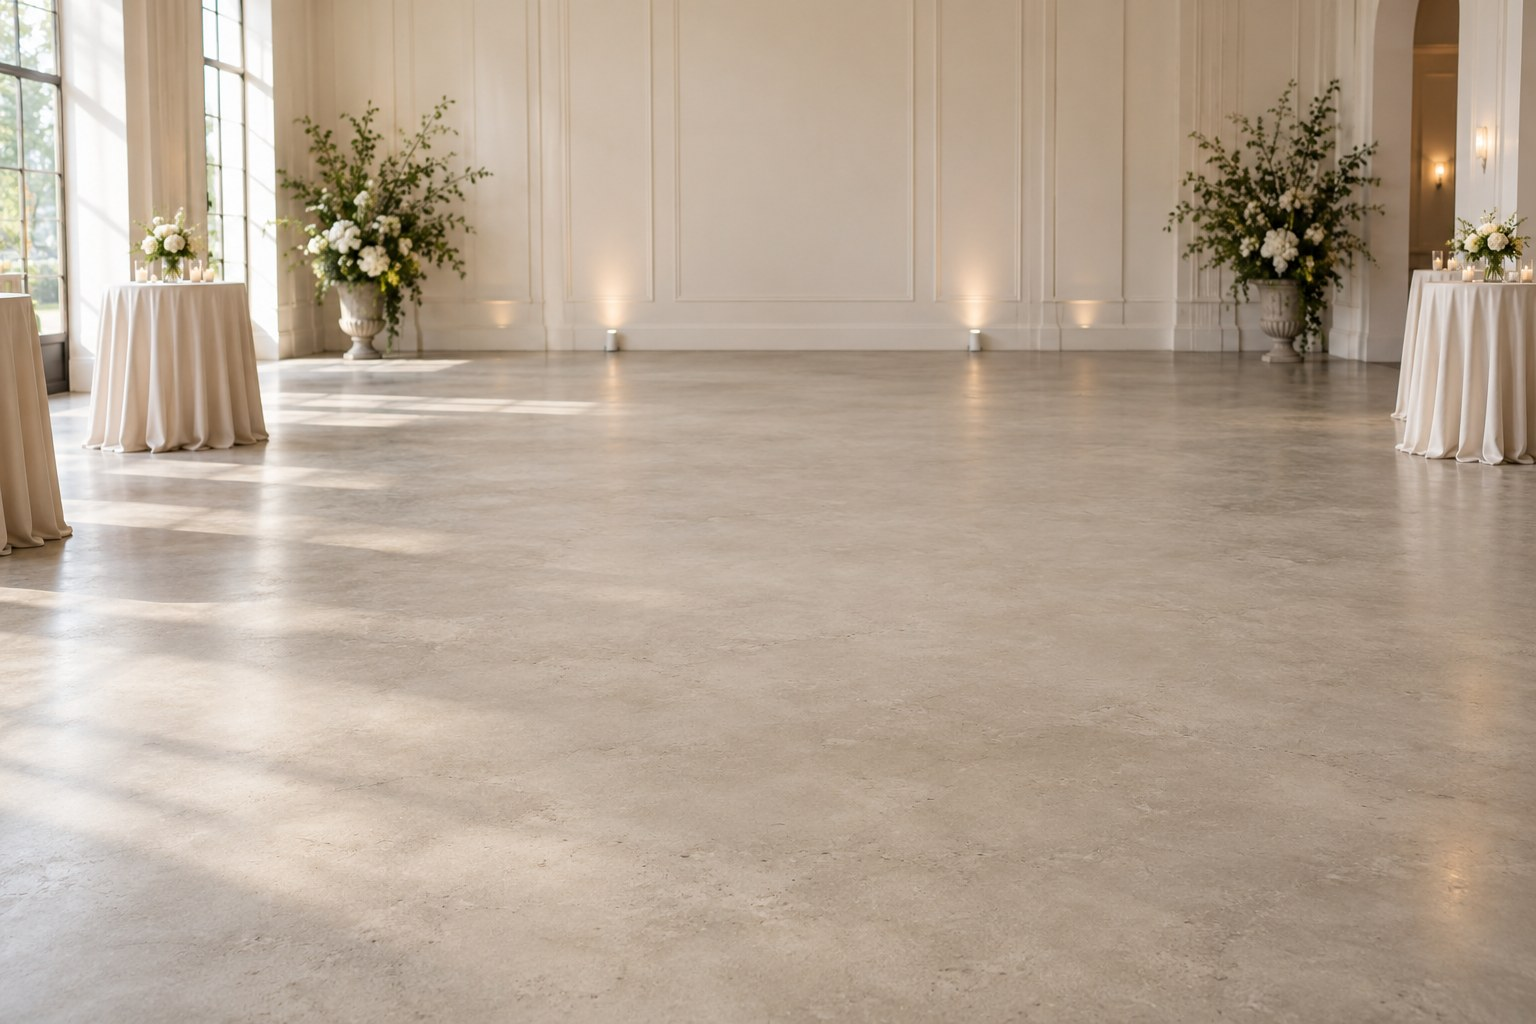
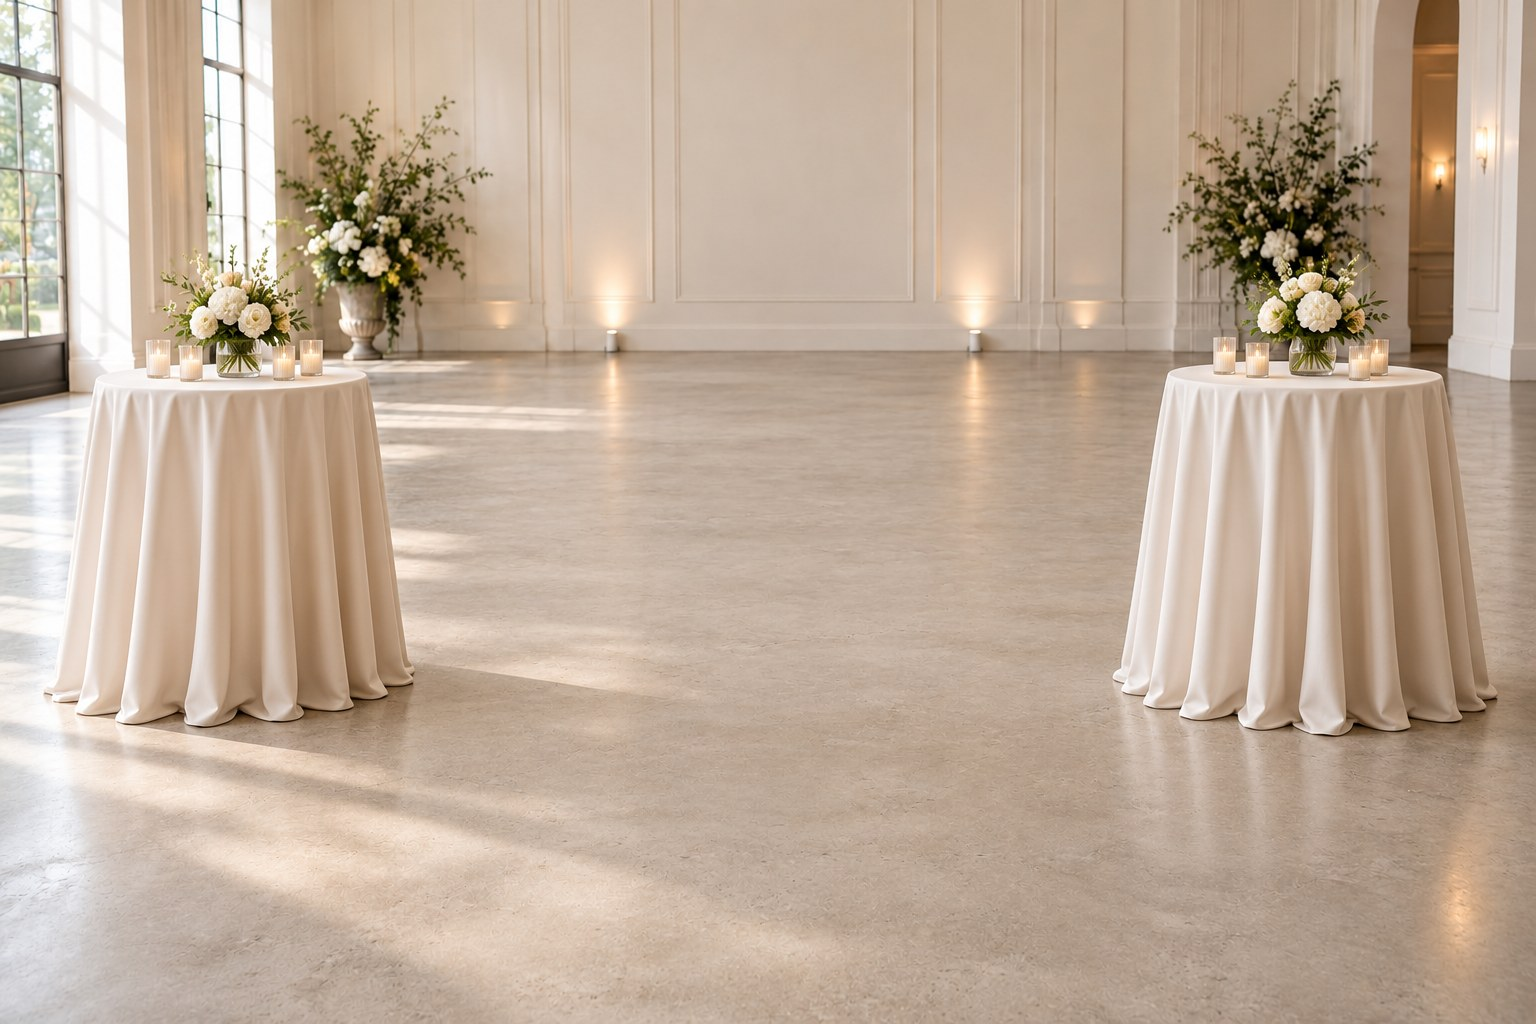
Improve modeling viewport and add hanging glass preview

diff --git a/angular-app/src/app/features/modeling/modeling.component.ts b/angular-app/src/app/features/modeling/modeling.component.ts
@@ -9,6 +9,7 @@ import { resizePlywoodPosition, resizeRoofCartPosition } from './modeling-geomet
 import { createRoundedPart, keepTrimJointSquare, keepPartJointsSquare, matingPartJoints, RoundingProfile } from './modeling-rounding';
 import { createFrontMoulding } from './modeling-moulding';
 import { pineWoodUv, addTopFinishUvs, groupTopFacesAndEdges, groupShakerRecess } from './modeling-textures';
+import { createHangingGlass, hangingGlassLayout } from './modeling-glasses';
 import { createRoofBottom, createGlassRack, glassRackLayout } from './modeling-roof';
 import { ASSEMBLY_PARTS, AssemblyController, PartKey } from './modeling-assembly';
 
@@ -61,6 +62,7 @@ export class ModelingComponent implements AfterViewInit, OnDestroy {
   readonly depth = signal(600);
   readonly height = signal(900);
   readonly rounding = signal(1.5);
+  readonly roundingEditing = signal(false);
   readonly moulding = signal(true);
   readonly frontStyle = signal<'shaker' | 'plain' | 'moulding'>('plain');
   private frontMoulding?: THREE.Mesh;
@@ -71,6 +73,15 @@ export class ModelingComponent implements AfterViewInit, OnDestroy {
     this.previewScene.set(scene);
     // The stationary photographic floor remains visible through the renderer.
     this.scene.background = scene === 'studio' ? new THREE.Color('#eceae8') : null;
+  }
+  readonly showGlasses = signal(false);
+  readonly glassDiameter = signal(80);
+  glassLayout() { return hangingGlassLayout(this.glassDiameter(), this.rackLayout().bowlDiameter); }
+  setShowGlasses(visible: boolean): void { this.showGlasses.set(visible); this.updateRoofBottom(); this.applyFinishes(); }
+  setGlassDiameter(raw: string): void {
+    const value = Number(raw); if (!Number.isFinite(value)) return;
+    this.glassDiameter.set(hangingGlassLayout(value, null).diameter);
+    this.updateRoofBottom(); this.applyFinishes();
   }
   readonly glassRackCount = signal(0);
   private glassRacks?: THREE.Group;
@@ -151,13 +162,13 @@ export class ModelingComponent implements AfterViewInit, OnDestroy {
       const light = new THREE.DirectionalLight('#ffffff', 1.3);
       light.position.set(2, 4, 3);
       light.castShadow = true;
-      light.shadow.mapSize.set(2048, 2048);
+      light.shadow.mapSize.set(4096, 4096);
       light.shadow.camera.left = light.shadow.camera.bottom = -2;
       light.shadow.camera.right = light.shadow.camera.top = 2;
       light.shadow.camera.near = 0.1;
       light.shadow.camera.far = 12;
       light.shadow.bias = -0.00002;
-      light.shadow.normalBias = 0.003;
+      light.shadow.normalBias = 0.001;
       this.scene.add(light);
       const ground = new THREE.Mesh(new THREE.PlaneGeometry(10, 10), new THREE.ShadowMaterial({ opacity: 0.22 }));
       ground.rotation.x = -Math.PI / 2;
@@ -175,6 +186,8 @@ export class ModelingComponent implements AfterViewInit, OnDestroy {
         this.controls, () => this.assemblyRevision.update(value => value + 1));
       this.resizeObserver = new ResizeObserver(() => this.resize());
       this.resizeObserver.observe(this.canvasHost.nativeElement);
+      window.addEventListener('resize', this.onPreviewResize);
+      document.addEventListener('scroll', this.onPreviewResize, true);
       this.resize();
       this.animate();
       void this.loadSavedModel();
@@ -184,7 +197,14 @@ export class ModelingComponent implements AfterViewInit, OnDestroy {
     }
   }
 
+  private readonly onPreviewResize = () => this.resize();
+
   private resize(): void {
+    if (this.canvasHost && window.matchMedia('(min-width: 981px)').matches) {
+      const card = this.canvasHost.nativeElement.parentElement!;
+      const top = Math.max(10, card.getBoundingClientRect().top);
+      card.style.setProperty('--viewer-top', `${top}px`);
+    }
     if (!this.renderer) return;
     const { width, height } = this.canvasHost.nativeElement.getBoundingClientRect();
     if (!width || !height) return;
@@ -245,9 +265,12 @@ export class ModelingComponent implements AfterViewInit, OnDestroy {
     this.loading.set(true);
     this.rawBody.set(true);
     this.moulding.set(this.isClassic());
+    this.roundingEditing.set(false);
     this.frontStyle.set(this.isClassic() ? 'plain' : 'shaker');
     this.roofClosed.set(false);
     this.glassRackCount.set(0);
+    this.showGlasses.set(false);
+    this.glassDiameter.set(80);
     this.topFinish.set(this.isClassic() ? 'plywood' : 'body');
     this.paintFinish.set('matte');
     try { await this.loadRecord(record, version); }
@@ -611,8 +634,8 @@ export class ModelingComponent implements AfterViewInit, OnDestroy {
     return this.paintFinish() === 'semi-gloss' ? 0.26 : 0.78;
   }
 
-  private paintReflection(): THREE.Texture | null {
-    if (this.paintFinish() !== 'semi-gloss' || !this.renderer) return null;
+  private paintReflection(forGlass = false): THREE.Texture | null {
+    if ((!forGlass && this.paintFinish() !== 'semi-gloss') || !this.renderer) return null;
     if (!this.paintEnvironment) {
       const studio = new THREE.Scene();
       studio.background = new THREE.Color('#181818');
@@ -757,6 +780,10 @@ export class ModelingComponent implements AfterViewInit, OnDestroy {
       for (const x of layout.centres) {
         const rack = createGlassRack();
         rack.position.set(x / 1000, envelope.min.y, (envelope.min.z + envelope.max.z) / 2);
+        if (this.showGlasses()) for (const z of this.glassLayout().positions) {
+          const glass = createHangingGlass(this.glassDiameter(), this.paintReflection(true));
+          glass.position.set(0, -.067, z); rack.add(glass);
+        }
         this.glassRacks.add(rack);
       }
       this.body.add(this.glassRacks);
@@ -975,6 +1002,8 @@ export class ModelingComponent implements AfterViewInit, OnDestroy {
     this.loadVersion++;
     cancelAnimationFrame(this.frame);
     this.resizeObserver?.disconnect();
+    window.removeEventListener('resize', this.onPreviewResize);
+    document.removeEventListener('scroll', this.onPreviewResize, true);
     this.controls?.dispose();
     this.assembly?.dispose();
     this.disposeModel();

diff --git a/angular-app/src/app/features/modeling/modeling.component.html b/angular-app/src/app/features/modeling/modeling.component.html
@@ -59,12 +59,19 @@
             <button type="button" [class.selected]="height() === value" [attr.aria-pressed]="height() === value" (click)="setDimension('height', value.toString())">{{value / 10}} cm</button>
           }
         </div>
-        <label id="model-rounding-label">Edge rounding <output>{{rounding()}} mm</output></label>
-        <div class="length-options rounding-options" role="group" aria-labelledby="model-rounding-label">
+        <div class="rounding-heading">
+          <label id="model-rounding-label">Edge rounding <output>{{rounding()}} mm</output></label>
+          <button type="button" class="icon-action rounding-edit" [attr.aria-label]="roundingEditing() ? 'Close edge rounding editor' : 'Edit edge rounding'" [attr.title]="roundingEditing() ? 'Done' : 'Edit'" [attr.aria-expanded]="roundingEditing()" aria-controls="rounding-options" (click)="roundingEditing.set(!roundingEditing())">
+            @if (roundingEditing()) { <span aria-hidden="true">✓</span> } @else { <svg aria-hidden="true" viewBox="0 0 24 24" width="14" height="14" fill="none" stroke="currentColor" stroke-width="1.8" stroke-linecap="round" stroke-linejoin="round"><path d="m16 3 5 5-12 12-6 1 1-6Z"/><path d="m14 5 5 5"/></svg> }
+          </button>
+        </div>
+        @if (roundingEditing()) {
+        <div id="rounding-options" class="length-options rounding-options" role="group" aria-labelledby="model-rounding-label">
           @for (radius of [0, 1, 1.5, 2, 2.5, 3]; track radius) {
             <button type="button" [disabled]="!roundingSupported() || roundingBusy()" [class.selected]="rounding() === radius" [attr.aria-pressed]="rounding() === radius" (click)="setRounding(radius)">{{radius === 0 ? 'None' : radius + ' mm'}}</button>
           }
         </div>
+        }
         @if (roundingBusy()) {<p class="progress" role="status">Rounding wooden parts…</p>}
         @if (!loading() && !roundingSupported()) {<p class="help">Upload an updated GLB with part profiles to enable rounding.</p>}
       </section>
@@ -101,6 +108,15 @@
             <p class="help" aria-live="polite">Clear gap between racks: <strong>{{rackLayout().gap!.toFixed(1)}} mm</strong><br>Maximum bowl diameter: <strong>{{rackLayout().bowlDiameter!.toFixed(1)}} mm</strong> (4 mm clearance).</p>
           } @else if (glassRackCount() === 1) { <p class="help">One centred rack — no adjacent rack limits the bowl diameter.</p> }
           <p class="help">Bowl diameter is based on rack spacing. Check the actual stem and base fit before manufacture.</p>
+          @if (glassRackCount() > 0) {
+            <label class="glasses-toggle"><span>Show glasses</span><input type="checkbox" [checked]="showGlasses()" (change)="setShowGlasses($any($event.target).checked)" aria-label="Show glasses on racks"></label>
+            @if (showGlasses()) {
+              <label for="glass-diameter">Bowl diameter <output>{{glassDiameter()}} mm</output></label>
+              <input id="glass-diameter" type="range" min="60" max="160" step="5" [value]="glassDiameter()" (input)="setGlassDiameter($any($event.target).value)" aria-label="Glass bowl diameter in millimetres">
+              @if (glassLayout().count) { <p class="help" aria-live="polite">{{glassLayout().count}} glasses per rack · {{glassLayout().count * glassRackCount()}} total. Preview wine glasses with a 70 mm foot.</p> }
+              @else { <p class="error" role="alert">These glasses exceed the spacing between racks. Reduce the bowl diameter or remove racks.</p> }
+            }
+          }
         }
       </section>
       }

diff --git a/angular-app/src/app/features/modeling/modeling-glasses.ts b/angular-app/src/app/features/modeling/modeling-glasses.ts
@@ -1,0 +1,32 @@
+import * as THREE from 'three';
+
+export function hangingGlassLayout(diameterMm: number, rackLimitMm: number | null) {
+  const diameter = Math.max(60, Math.min(160, Math.round(diameterMm / 5) * 5));
+  const fits = rackLimitMm === null || diameter <= rackLimitMm;
+  const spacing = Math.max(diameter, 70) + 4;
+  const count = fits ? Math.floor(320 / spacing) : 0;
+  const pitch = spacing / 1000;
+  return { diameter, count, positions: Array.from({ length: count }, (_, i) => .03 + (i - (count - 1) / 2) * pitch) };
+}
+
+// Inverted wine glass: a 70 mm foot rests above the rods; its stem passes
+// through the slot. The hollow bowl and open rim are modelled as a thin shell.
+export function createHangingGlass(diameterMm: number, environment: THREE.Texture | null): THREE.Group {
+  const group = new THREE.Group(), radius = diameterMm / 2000;
+  const material = new THREE.MeshPhysicalMaterial({ color: '#f2f9fb', transparent: true, opacity: .22,
+    roughness: .07, metalness: 0, clearcoat: 1, clearcoatRoughness: .08,
+    envMap: environment, envMapIntensity: .6, depthWrite: false, side: THREE.DoubleSide });
+  const add = (geometry: THREE.BufferGeometry, y: number) => {
+    const mesh = new THREE.Mesh(geometry, material); mesh.position.y = y;
+    mesh.userData['fixedMaterial'] = true; group.add(mesh);
+  };
+  add(new THREE.CylinderGeometry(.035, .035, .003, 32), .0015);
+  add(new THREE.CylinderGeometry(.0025, .003, .079, 16), -.0395);
+  const profile = [new THREE.Vector2(.003, -.078), new THREE.Vector2(radius*.30, -.089),
+    new THREE.Vector2(radius*.74, -.112), new THREE.Vector2(radius, -.145),
+    new THREE.Vector2(radius*.95, -.184), new THREE.Vector2(radius*.91, -.185),
+    new THREE.Vector2(radius*.96, -.145), new THREE.Vector2(radius*.70, -.113),
+    new THREE.Vector2(radius*.27, -.090), new THREE.Vector2(.002, -.080)];
+  add(new THREE.LatheGeometry(profile, 32), 0);
+  return group;
+}

diff --git a/angular-app/src/app/features/modeling/modeling-glasses.spec.ts b/angular-app/src/app/features/modeling/modeling-glasses.spec.ts
@@ -1,0 +1,35 @@
+import {describe, it, expect} from 'vitest';
+import * as THREE from 'three';
+import {hangingGlassLayout, createHangingGlass} from './modeling-glasses';
+
+describe('Hanging glasses', () => {
+  it('fits bowls within the usable rack length with clearance between glasses', () => {
+    for (const diameter of [60, 80, 100, 160]) {
+      const layout = hangingGlassLayout(diameter, null);
+      expect(layout.count).toBe(Math.floor(320 / (Math.max(diameter, 70) + 4)));
+      expect(layout.positions[0] - diameter / 2000).toBeGreaterThanOrEqual(-.13);
+      expect(layout.positions.at(-1)! + diameter / 2000).toBeLessThanOrEqual(.19);
+      for (let i = 1; i < layout.count; i++) {
+        expect((layout.positions[i] - layout.positions[i - 1]) * 1000).toBeCloseTo(Math.max(diameter, 70) + 4);
+      }
+    }
+  });
+  it('prevents bowls from overlapping the adjacent rack row', () => {
+    expect(hangingGlassLayout(105, 102.875).count).toBe(0);
+    expect(hangingGlassLayout(100, 102.875).count).toBe(3);
+    expect(hangingGlassLayout(999, null).diameter).toBe(160);
+  });
+  it('places a transparent glass foot on the rail with the bowl hanging below', () => {
+    const glass = createHangingGlass(80, null);
+    const bounds = new THREE.Box3().setFromObject(glass);
+    expect(bounds.max.y).toBeCloseTo(.003);
+    expect(bounds.min.y).toBeCloseTo(-.185);
+    expect(bounds.max.x - bounds.min.x).toBeCloseTo(.08);
+    glass.traverse(object => {
+      if (!(object instanceof THREE.Mesh)) return;
+      expect(object.userData['fixedMaterial']).toBe(true);
+      expect((object.material as THREE.MeshPhysicalMaterial).transparent).toBe(true);
+      expect(object.castShadow).toBe(false);
+    });
+  });
+});

diff --git a/angular-app/src/app/features/modeling/modeling.component.css b/angular-app/src/app/features/modeling/modeling.component.css
@@ -10,3 +10,8 @@
 .parts-list{margin-top:12px;display:grid;gap:5px}.part-row{display:grid;grid-template-columns:16px minmax(0,1fr) 42px;gap:5px;align-items:center}.part-row input{accent-color:#1884e8}.part-row button{min-height:28px;text-align:left;border:1px solid #dce3e9;border-radius:7px;background:#fff;color:#425162;padding:5px 8px;font-size:11px;cursor:pointer}.part-row button.selected{border-color:#1884e8;background:#eef6ff}.part-row button:disabled{opacity:.45;cursor:default}.part-row span{font-size:10px;color:#798696;text-align:right}.assembly-card .setting-title label{flex:1;gap:8px;margin-right:12px}
 
 .scene-options{grid-template-columns:repeat(3,minmax(0,1fr))}.canvas-host.scene-event{background:#eceae8 url('../../../../public/modeling-scenes/event.jpg') center/cover no-repeat}.canvas-host.scene-office{background:#eceae8 url('../../../../public/modeling-scenes/office.jpg') center/cover no-repeat}
+
+.rounding-heading{display:flex;align-items:center;gap:8px;margin-top:12px}.setting-card .rounding-heading label{flex:1;margin:0}.rounding-edit{width:27px;height:27px;font-size:14px}
+
+@media(min-width:981px){.viewer-card{display:flex;flex-direction:column;height:calc(100dvh - var(--viewer-top,80px) - 12px);min-height:360px}.viewer-card .canvas-host{flex:1;height:auto;min-height:0}.viewer-toolbar,.viewer-footer{flex:none}}
+.glasses-toggle input{accent-color:#334155}
